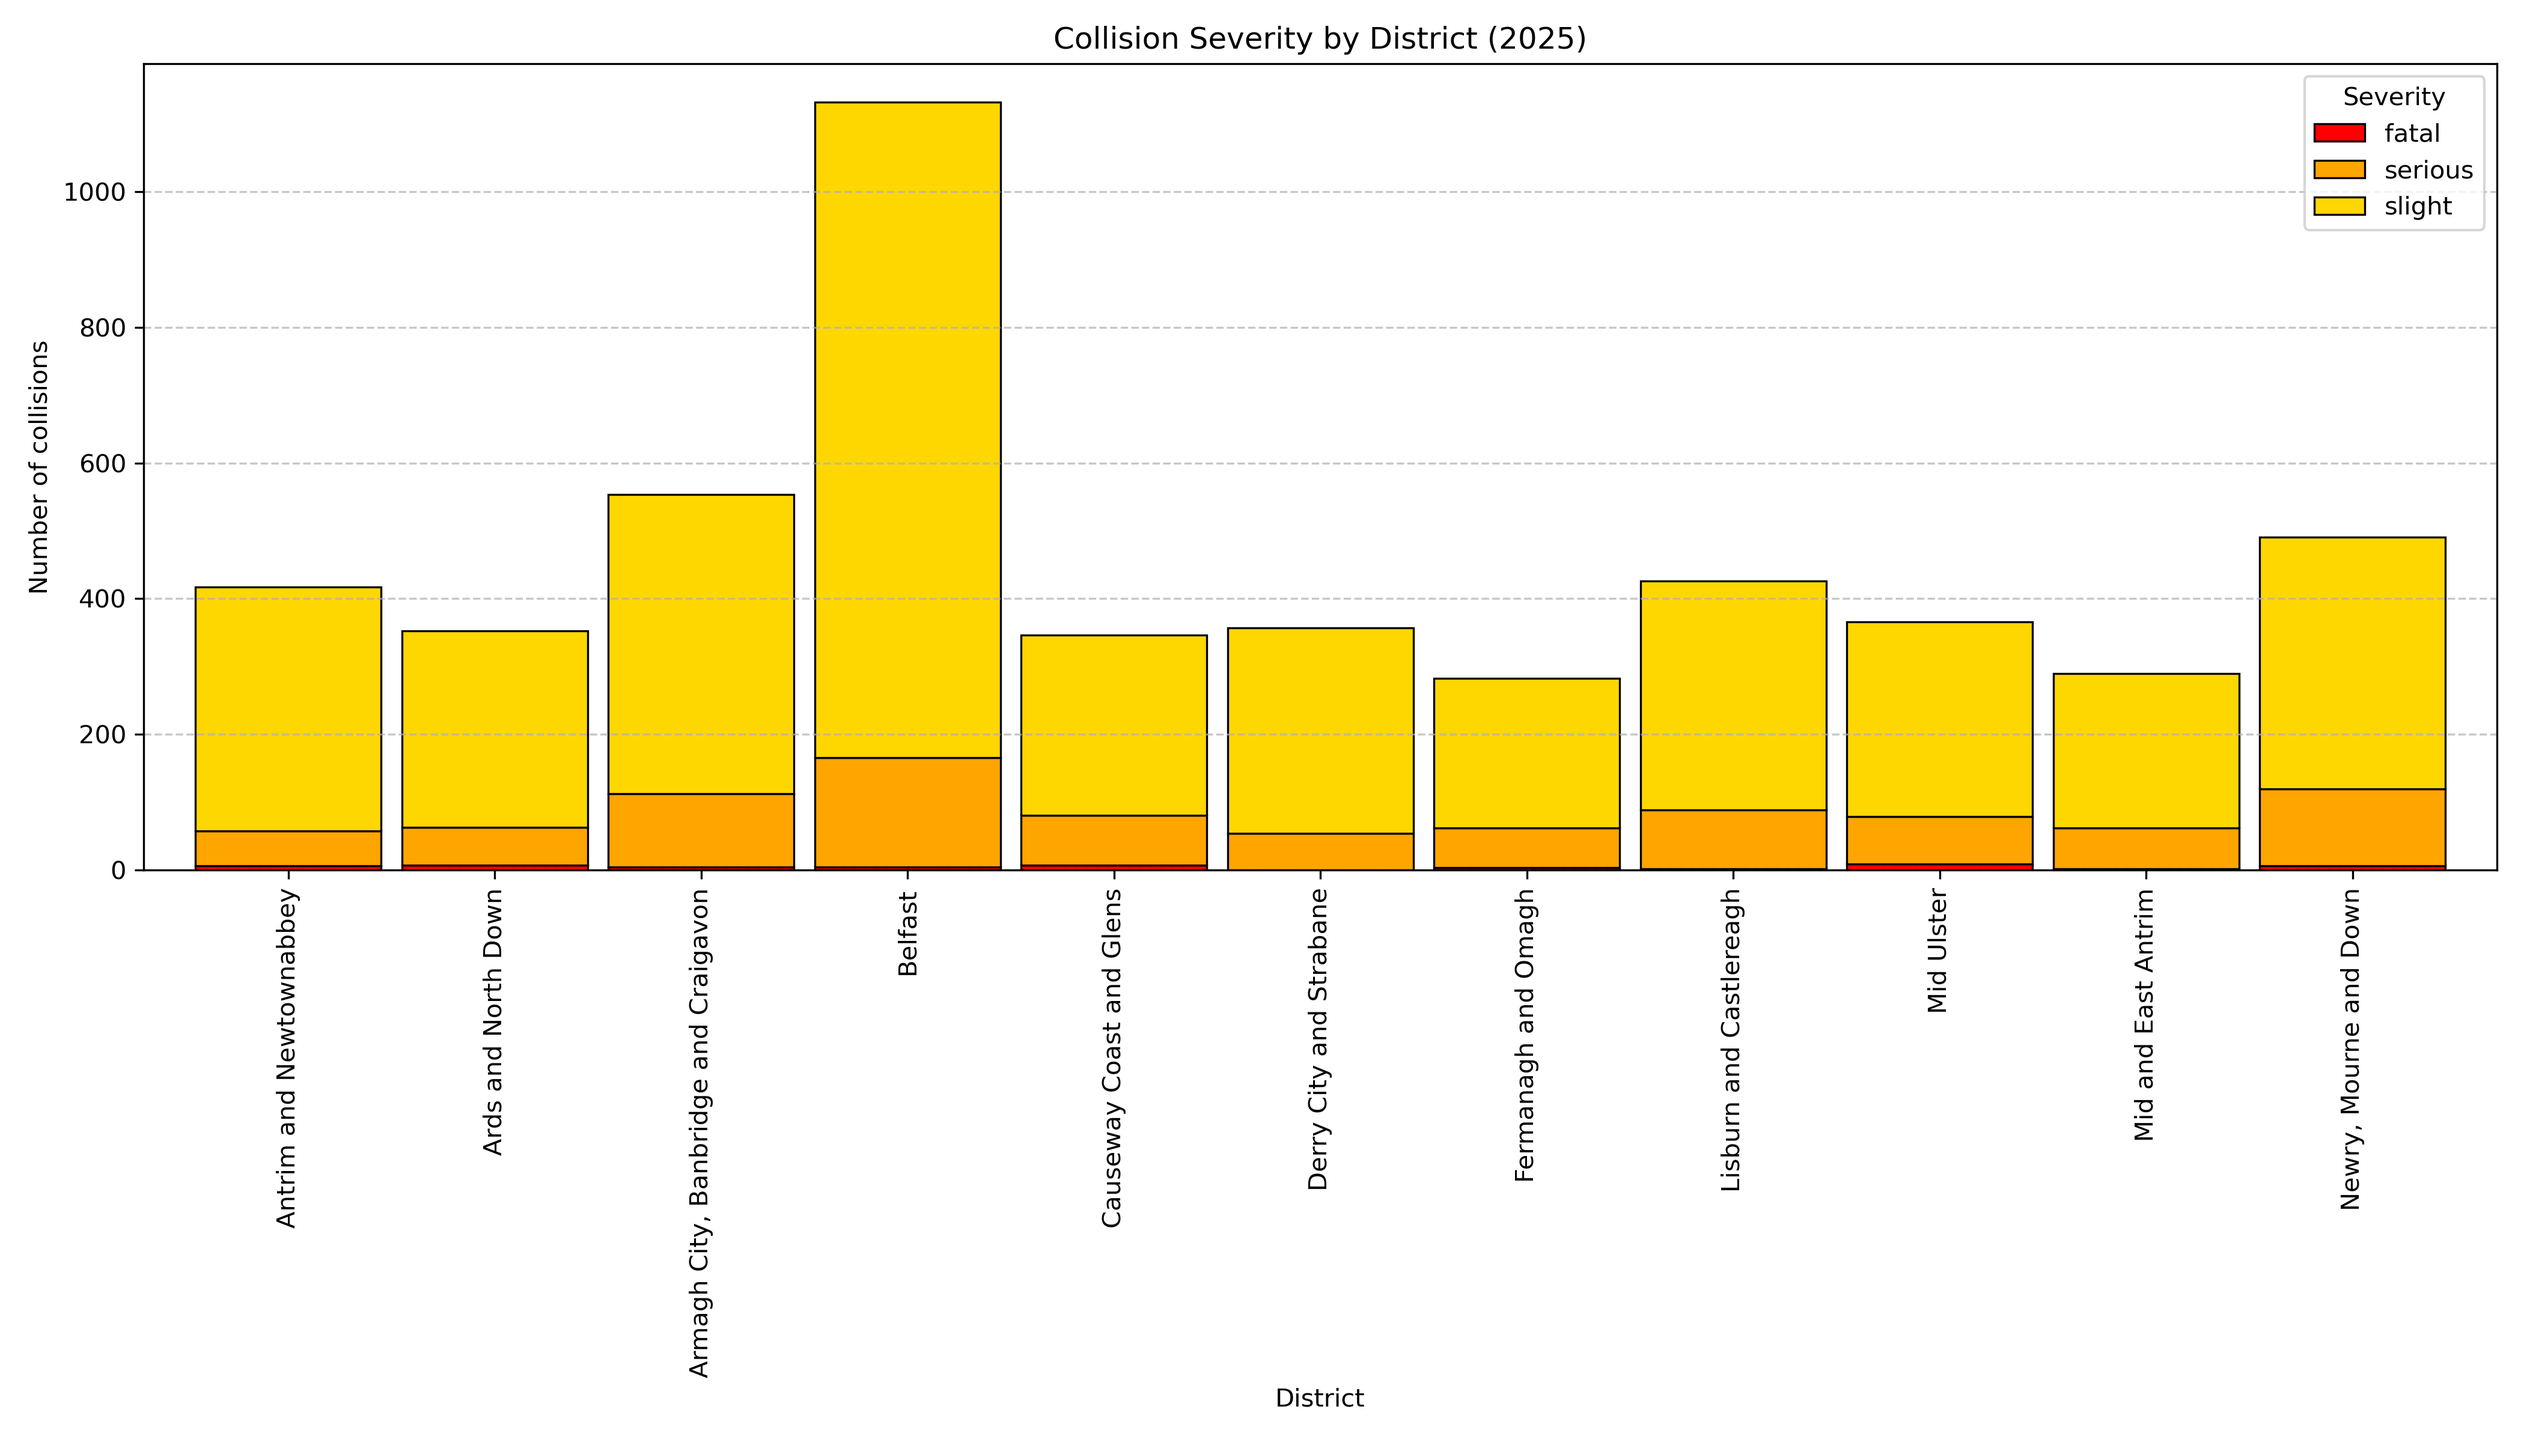
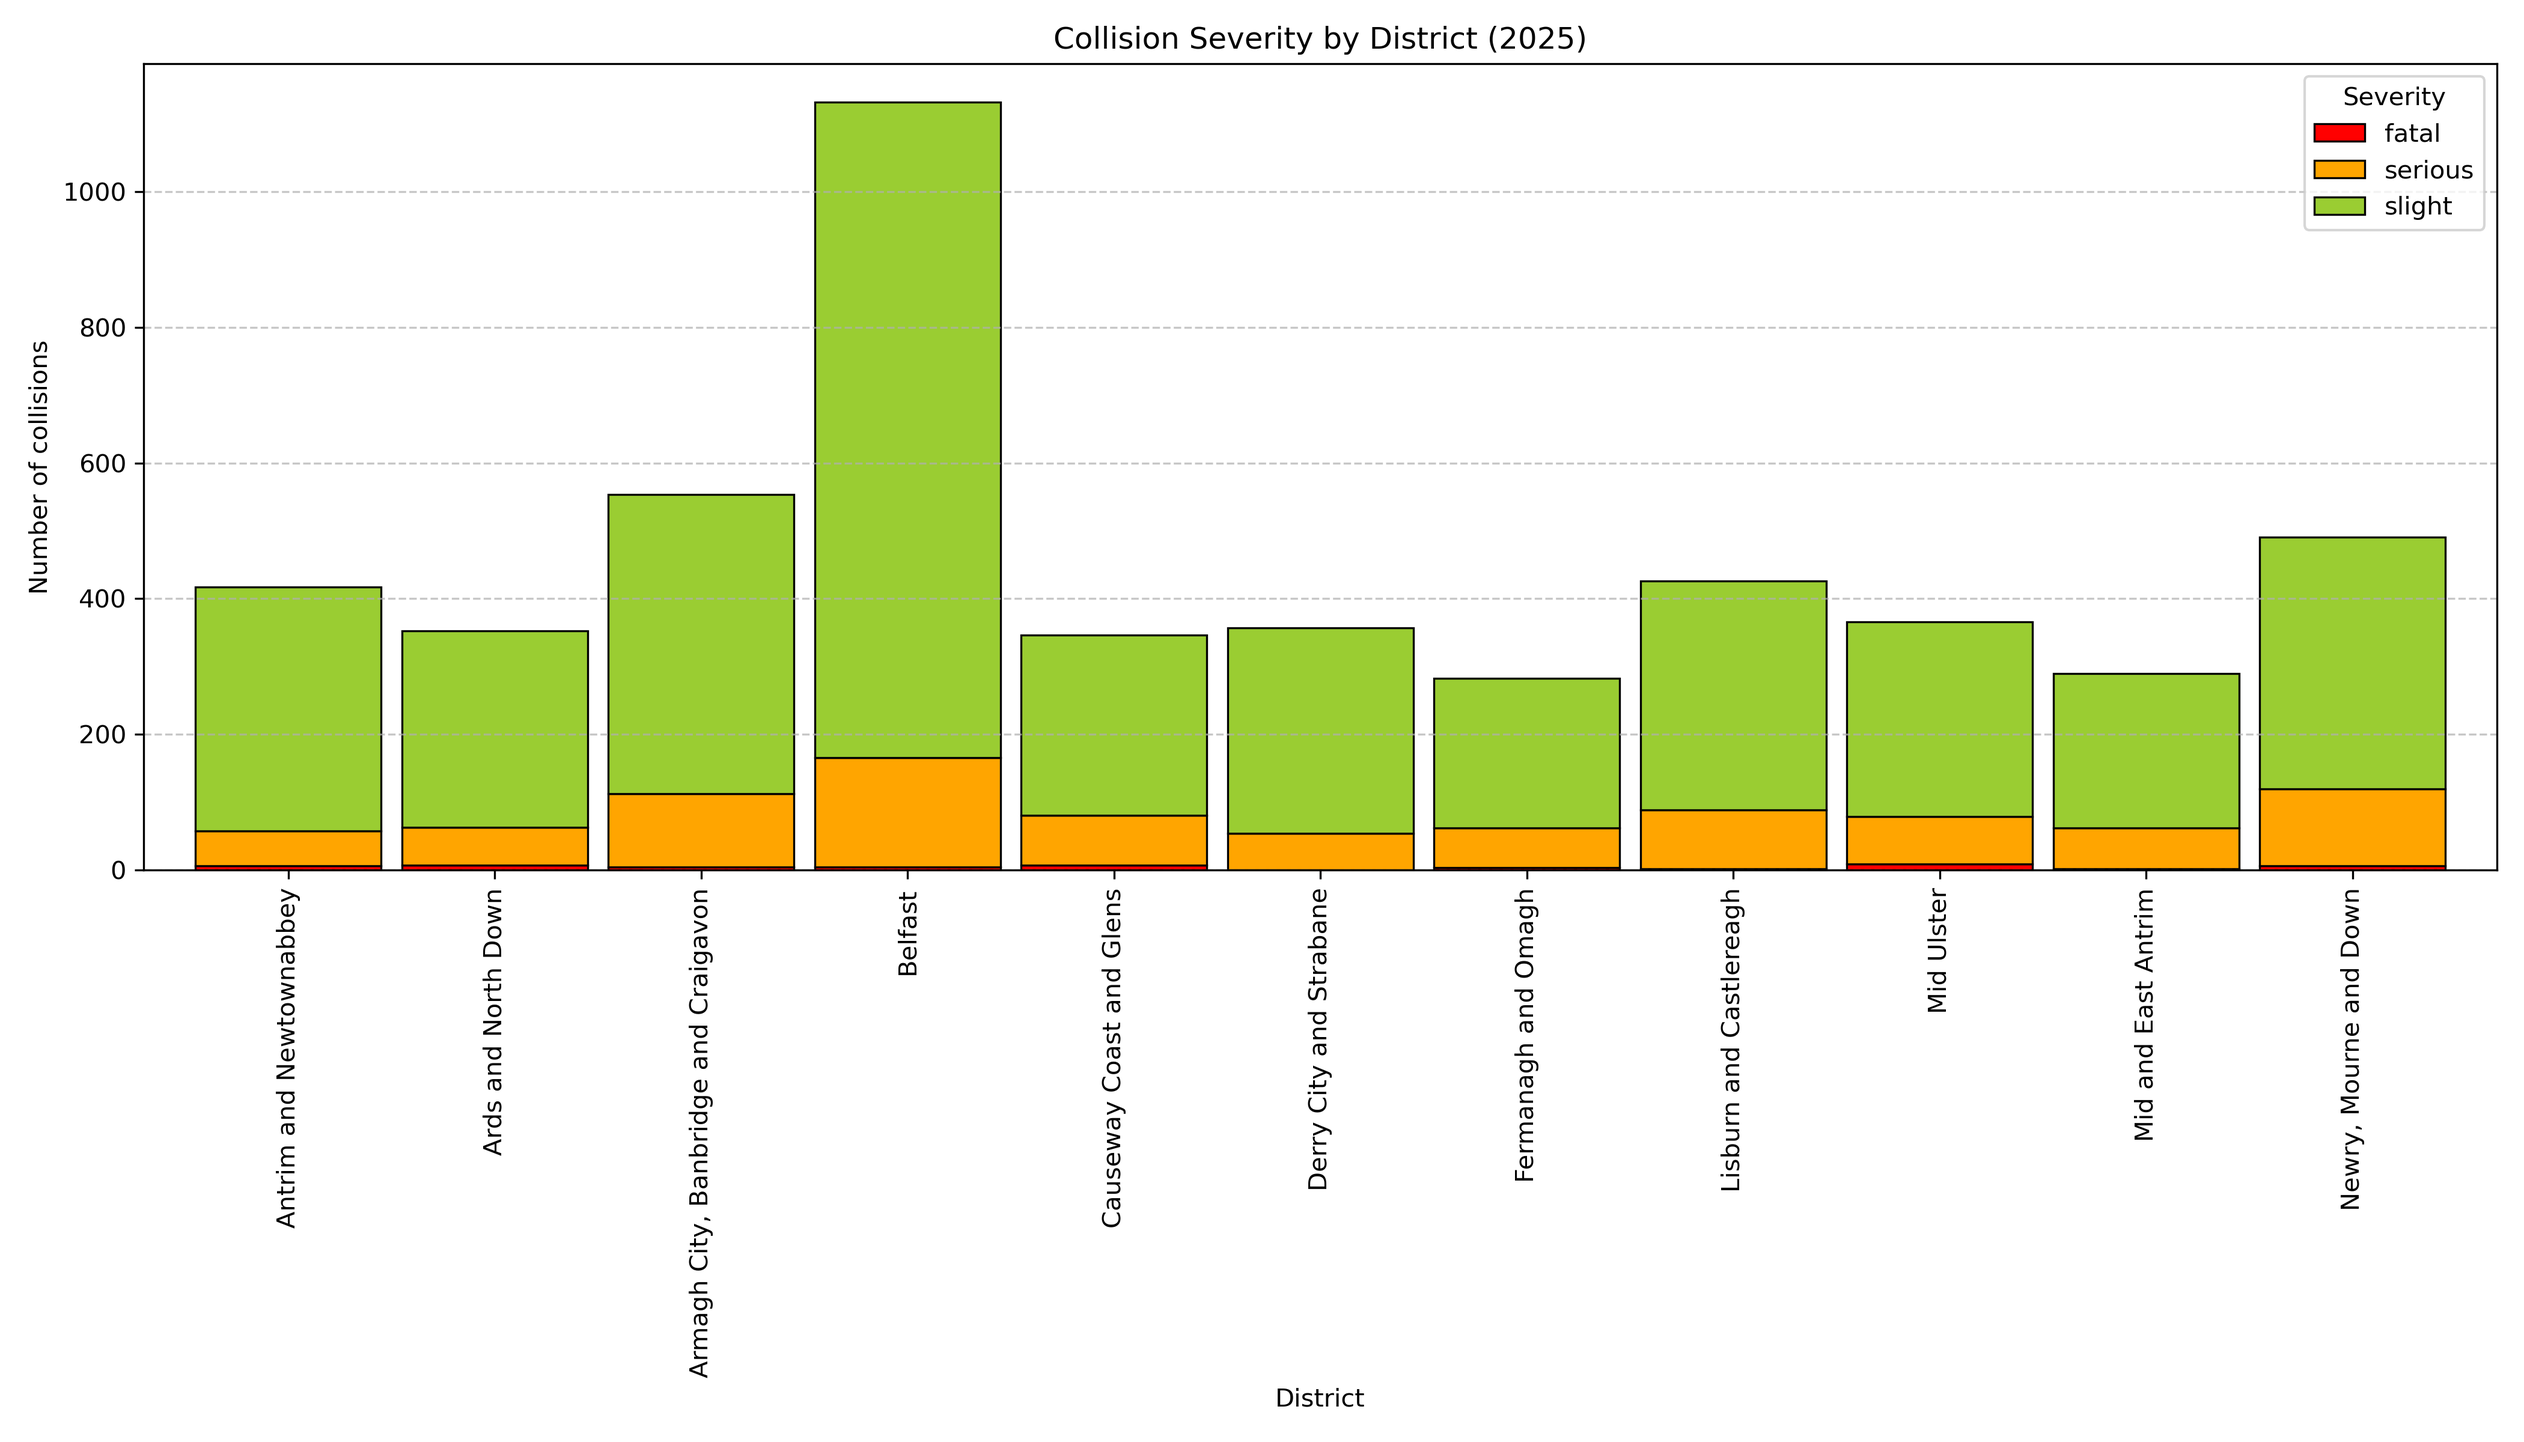
graph improvement
changing colour for slight severity to match other used slight colour

Changed region(s): [[0.0624, 0.0625, 0.9669, 0.5938], [0.9045, 0.125, 0.9357, 0.1562]]

diff --git a/ni_collision_analysis.py b/ni_collision_analysis.py
@@ -446,7 +446,7 @@ print(f"{YEAR} TABLE Severity_by_district.csv created")
 
 # Create bar chart - Collision Severity by District
 severity_table[["fatal", "serious", "slight"]].plot(kind="bar",stacked=True,figsize=(14, 8),
-                                                    color=["red", "orange", "gold"],edgecolor="black",
+                                                    color=["red", "orange", "yellowgreen"],edgecolor="black",
                                                     linewidth=0.8,width=0.9)
 
 plt.title(f"Collision Severity by District ({YEAR})")
